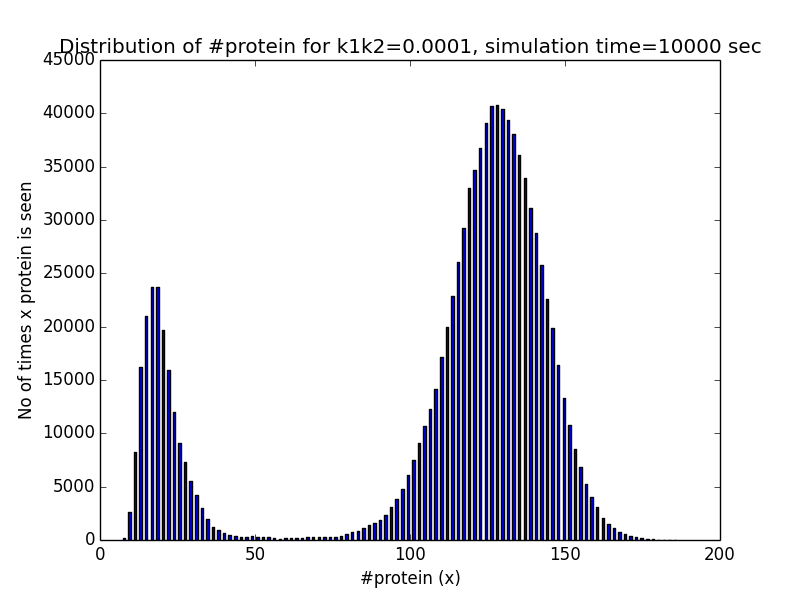
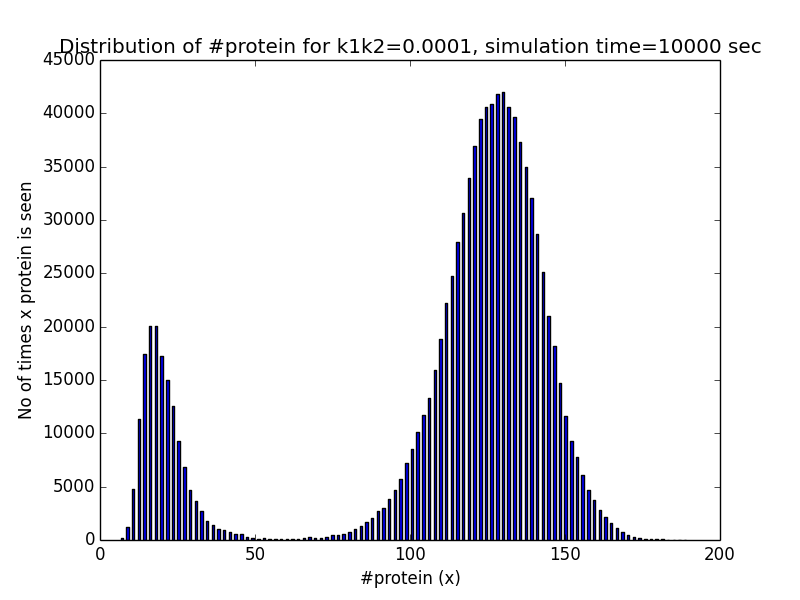
This got four state transitions. Fixed the misleading paths in script.
Fixed the paths in assignment.

Changed region(s): [[0.375, 0.15, 0.8125, 0.9], [0.1562, 0.48, 0.3438, 0.9]]

diff --git a/RandomnessInBiology_Monsoon_2014/Assignment07/solve.py b/RandomnessInBiology_Monsoon_2014/Assignment07/solve.py
@@ -16,6 +16,8 @@ __status__           = "Development"
 
 import numpy as np
 import sys
+import matplotlib as mpl
+import matplotlib.pyplot as plt
 
 class GeneticSwitch():
 
@@ -112,50 +114,46 @@ class GeneticSwitch():
 
     def plotTrajectories(self, nos = -1, save = True):
         """Plot total number of trajectories """
-        import pylab
         if nos == -1: nos = len(self.trajectories)
-        pylab.figure()
+        plt.figure()
         for trajectory in self.trajectories[:nos]:
             x = [ (self.cutoff + i) * self.step for i in range(len(trajectory)) ]
-            pylab.plot(x, trajectory)
-        pylab.xlabel("Time in seconds")
-        pylab.ylabel("x (protein number)")
-        pylab.title("#protein: Using Langevian for k1k2={}, sim time = {}".format(
+            plt.plot(x, trajectory, linewidth=0.04)
+        plt.xlabel("Time in seconds")
+        plt.ylabel("x (protein number)")
+        plt.title("protein: Using Langevian for k1k2={}, sim time = {}".format(
             self.k1k2, self.stop)
             )
         if save:
-            pylab.savefig('langevin_trajectories_{:.2e}.png'.format(gs.k1k2))
+            plt.savefig('final_pics/langevin_trajectories_{:.0e}.png'.format(self.k1k2))
         else:
-            pylab.show()
+            plt.show()
 
     def plotHistogram(self, save = False):
         """Plot a histogram """
-        import pylab
-        pylab.figure()
+        plt.figure()
         collectedOutput = np.array([])
         for trajectory in self.trajectories:
-            np.append(collectedOutput, trajectory)
-
+            collectedOutput = np.append(collectedOutput, trajectory)
         hist, bins = np.histogram(collectedOutput, bins=100)
-        pylab.bar(bins[:-1], hist)
-        pylab.xlabel("#protein (x)")
-        pylab.ylabel("No of times x protein is seen")
-        pylab.title(
+        plt.bar(bins[:-1], hist)
+        plt.xlabel("#protein (x)")
+        plt.ylabel("No of times x protein is seen")
+        plt.title(
                 "Distribution of #protein for k1k2={}, simulation time={} sec".format(
                     self.k1k2, self.stop
                     )
                 )
         if save:
-            pylab.savefig('distibution_{:.2e}.png'.format(self.k1k2))
+            plt.savefig('final_pics/distribution_{:.0e}.png'.format(self.k1k2))
         else:
-            pylab.show()
+            plt.show()
 
 def main():
-    import pylab
     gs = GeneticSwitch(k1k2=1e-4, init=0)
-    gs.run(step = 0.001, stop = 1000, ntimes = 1)
-    gs.plotTrajectories(save = False)
-    #gs.plotHistogram()
+    gs.run(step = 0.01, stop = 10000, ntimes = 1)
+    gs.plotTrajectories(save = True)
+    gs.plotHistogram( save = True)
 
 if __name__ == '__main__':
     main()
